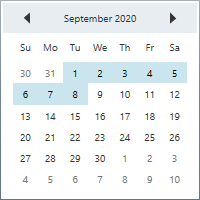
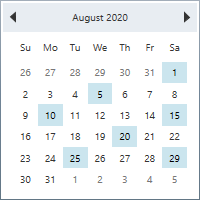
WPF-55739CalendarEdit key navigation selection addressed

diff --git a/wpf-toc.html b/wpf-toc.html
@@ -191,7 +191,7 @@
         <ul>
             <li><a href="/wpf/Calendar/overview">Overview</a></li>
             <li><a href="/wpf/Calendar/getting-started">Getting Started</a></li>
-            <li><a href="/wpf/Calendar/working-with-calendar">Working with Calendar</a></li>
+            <li><a href="/wpf/Calendar/date-selection">Date-Selection</a></li>
 			<li><a href="/wpf/Calendar/restrict-date-selection">Restrict Date Selection</a></li>
 			<li><a href="/wpf/Calendar/navigation-support">Date Navigation</a></li>
             <li><a href="/wpf/Calendar/using-calendaredit-object">Using CalendarEdit Object</a></li>

diff --git a/wpf/Calendar/Date-Selection.md b/wpf/Calendar/Date-Selection.md
@@ -1,13 +1,13 @@
 ---
 layout: post
-title: Working with Calendar in WPF CalendarEdit | Syncfusion
+title: Date selection in WPF CalendarEdit | Syncfusion
 description: This section explains how to use calendar and what are the features available in the WPF CalendarEdit 
 platform: wpf
 control: CalendarEdit
 documentation: ug
 ---
 
-# Working with WPF CalendarEdit
+# Date selection in WPF CalendarEdit
 
 This section explains how to select a date and custom UI of the WPF [CalendarEdit](https://help.syncfusion.com/cr/wpf/Syncfusion.Windows.Shared.CalendarEdit.html) control.
 
@@ -59,7 +59,7 @@ N> [View Sample in GitHub](https://github.com/SyncfusionExamples/syncfusin-wpf-c
 ## Select multiple dates
 
 You can select a multiple dates by drag and move the mouse from required start date to end date.
- You can get the selected dates from the [SelectedDates](https://help.syncfusion.com/cr/wpf/Syncfusion.Windows.Shared.CalendarEdit.html#Syncfusion_Windows_Shared_CalendarEdit_SelectedDates) property. You can restrict the multiple date selection by setting [AllowMultiplySelection](https://help.syncfusion.com/cr/wpf/Syncfusion.Windows.Shared.CalendarEdit.html#Syncfusion_Windows_Shared_CalendarEdit_AllowMultiplySelection) property as `false`. The default value of `AllowMultiplySelection` property is `true`.
+You can get the selected dates from the [SelectedDates](https://help.syncfusion.com/cr/wpf/Syncfusion.Windows.Shared.CalendarEdit.html#Syncfusion_Windows_Shared_CalendarEdit_SelectedDates) property. You can restrict the multiple date selection by setting [AllowMultiplySelection](https://help.syncfusion.com/cr/wpf/Syncfusion.Windows.Shared.CalendarEdit.html#Syncfusion_Windows_Shared_CalendarEdit_AllowMultiplySelection) property as `false`. The default value of `AllowMultiplySelection` property is `true`.
 
 {% tabs %}
 {% highlight XAML %}
@@ -81,6 +81,30 @@ calendarEdit.AllowMultiplySelection = true;
 
 N> [View Sample in GitHub](https://github.com/SyncfusionExamples/syncfusin-wpf-calendar-examples/tree/master/Samples/Select-Date)
 
+### Select specific multiple dates
+
+You can select a specific multiple dates by pressing the `Ctrl` key and select required dates using mouse click.
+
+{% tabs %}
+{% highlight XAML %}
+
+<!-- Selecting multiple dates-->
+<syncfusion:CalendarEdit Name="calendarEdit" 
+                         AllowMultiplySelection="True"/>
+
+{% endhighlight %}
+{% highlight C# %}
+
+//Selecting multiple dates
+calendarEdit.AllowMultiplySelection = true;
+
+{% endhighlight %}
+{% endtabs %}
+
+![CalendarEdit control displaying specifically selected multiple dates](Getting-Started_images/multiple-date-selection_mouse.png)
+
+N> [View Sample in GitHub](https://github.com/SyncfusionExamples/syncfusin-wpf-calendar-examples/tree/master/Samples/Select-Date)
+
 ### Select a multiple dates programmatically
 
 You can select a multiple dates programmatically by setting the dates to the [SelectedDatesList](https://help.syncfusion.com/cr/wpf/Syncfusion.Windows.Shared.CalendarEdit.html#Syncfusion_Windows_Shared_CalendarEdit_SelectedDatesList) property.
@@ -89,7 +113,7 @@ You can select a multiple dates programmatically by setting the dates to the [Se
 {% highlight XAML %}
 
 <!-- Selecting date -->
-<syncfusion:CalendarEdit Date="25/08/2020" 
+<syncfusion:CalendarEdit Date="08/25/2020" 
                          AllowMultiplySelection="True"
                          Name="calendarEdit"/>
 {% endhighlight %}
@@ -98,27 +122,69 @@ You can select a multiple dates programmatically by setting the dates to the [Se
 //Selecting multiple date programmatically
 calendarEdit.AllowMultiplySelection = true;
 calendarEdit.SelectedDatesList = new List<Date>();
-calendarEdit.SelectedDatesList.Add(new Date(2020, 09, 01));
-calendarEdit.SelectedDatesList.Add(new Date(2020, 09, 02));
-calendarEdit.SelectedDatesList.Add(new Date(2020, 09, 03));
-calendarEdit.SelectedDatesList.Add(new Date(2020, 09, 04));
-calendarEdit.SelectedDatesList.Add(new Date(2020, 09, 05));
-calendarEdit.SelectedDatesList.Add(new Date(2020, 09, 06));
-calendarEdit.SelectedDatesList.Add(new Date(2020, 09, 07));
-calendarEdit.SelectedDatesList.Add(new Date(2020, 09, 08));
+calendarEdit.SelectedDatesList.Add(new Date(2020, 08, 01));
+calendarEdit.SelectedDatesList.Add(new Date(2020, 08, 05));
+calendarEdit.SelectedDatesList.Add(new Date(2020, 08, 10));
+calendarEdit.SelectedDatesList.Add(new Date(2020, 08, 15));
+calendarEdit.SelectedDatesList.Add(new Date(2020, 08, 20));
+calendarEdit.SelectedDatesList.Add(new Date(2020, 08, 29));
 
 {% endhighlight %}
 {% endtabs %}
 
 ![Multiple dates selected programmatically from the CalendarEdit](Getting-Started_images/MultipleDate_programmatically.png)
 
-### Select multiple dates using key navigation
+## Select multiple dates using key navigation
 
 You can select a multiple dates by pressing the `Shift` with `Arrow` keys. If you want to select multiple dates in forward direction, press the `Shift + Down` or  `Shift + Right` keys. If you want to select a date in backward direction, press the `Shift + UP` or  `Shift + Left` keys. You can get the selected dates from the `SelectedDates` property.
 
 For example, if you start selecting the date from `18 Nov 2020` using key navigation, it will be select the dates as follows,
 
+{% tabs %}
+{% highlight XAML %}
+
+<!-- Selecting multiple dates-->
+<syncfusion:CalendarEdit Name="calendarEdit" 
+                         AllowMultiplySelection="True"/>
+
+{% endhighlight %}
+{% highlight C# %}
+
+//Selecting multiple dates
+calendarEdit.AllowMultiplySelection = true;
+
+{% endhighlight %}
+{% endtabs %}
+
 ![Multiple dates selected by key navigation in CalendarEdit](Working-with-Calendar_images/Multipledates_keynavigation.png)
+
+### Select specific multiple dates using key navigation
+
+You can select or unselect the specific multiple dates by using the `Ctrl`, `Arrow` keys and `Space` bar.
+
+* `Ctrl + Arrow` keys → To move the focus to the top, left, bottom and right cells with maintaining the old selection.
+* `Space` bar → To select the currently focused item.
+* `Ctrl + Space` bar → To remove an item from multiple selection that is already selected.
+
+{% tabs %}
+{% highlight XAML %}
+
+<!-- Selecting multiple dates-->
+<syncfusion:CalendarEdit Name="calendarEdit" 
+                         AllowMultiplySelection="True"/>
+
+{% endhighlight %}
+{% highlight C# %}
+
+//Selecting multiple dates
+calendarEdit.AllowMultiplySelection = true;
+
+{% endhighlight %}
+{% endtabs %}
+
+![CalendarEdit control displaying specifically selected multiple dates](Getting-Started_images/multiple-date-selection_keys.png)
+
+N> [View Sample in GitHub](https://github.com/SyncfusionExamples/syncfusin-wpf-calendar-examples/tree/master/Samples/Select-Date)
 
 ## Highlight selected date
 

diff --git a/wpf/Calendar/Getting-Started.md b/wpf/Calendar/Getting-Started.md
@@ -186,7 +186,7 @@ You can select a multiple dates programmatically by setting the dates to the [Se
 {% highlight XAML %}
 
 <!-- Selecting date -->
-<syncfusion:CalendarEdit Date="25/08/2020" 
+<syncfusion:CalendarEdit Date="08/25/2020" 
                          AllowMultiplySelection="True"
                          Name="calendarEdit"/>
 {% endhighlight %}
@@ -195,14 +195,12 @@ You can select a multiple dates programmatically by setting the dates to the [Se
 //Selecting multiple date programmatically
 calendarEdit.AllowMultiplySelection = true;
 calendarEdit.SelectedDatesList = new List<Date>();
-calendarEdit.SelectedDatesList.Add(new Date(2020, 09, 01));
-calendarEdit.SelectedDatesList.Add(new Date(2020, 09, 02));
-calendarEdit.SelectedDatesList.Add(new Date(2020, 09, 03));
-calendarEdit.SelectedDatesList.Add(new Date(2020, 09, 04));
-calendarEdit.SelectedDatesList.Add(new Date(2020, 09, 05));
-calendarEdit.SelectedDatesList.Add(new Date(2020, 09, 06));
-calendarEdit.SelectedDatesList.Add(new Date(2020, 09, 07));
-calendarEdit.SelectedDatesList.Add(new Date(2020, 09, 08));
+calendarEdit.SelectedDatesList.Add(new Date(2020, 08, 01));
+calendarEdit.SelectedDatesList.Add(new Date(2020, 08, 05));
+calendarEdit.SelectedDatesList.Add(new Date(2020, 08, 10));
+calendarEdit.SelectedDatesList.Add(new Date(2020, 08, 15));
+calendarEdit.SelectedDatesList.Add(new Date(2020, 08, 20));
+calendarEdit.SelectedDatesList.Add(new Date(2020, 08, 29));
 
 {% endhighlight %}
 {% endtabs %}

diff --git a/readme.md b/readme.md
@@ -1,4 +1,4 @@
-# Documentation Guidelines
+# Documentation Guidelines 
 
 This section contains guidelines on naming files, sections, documents and other document elements.
 
